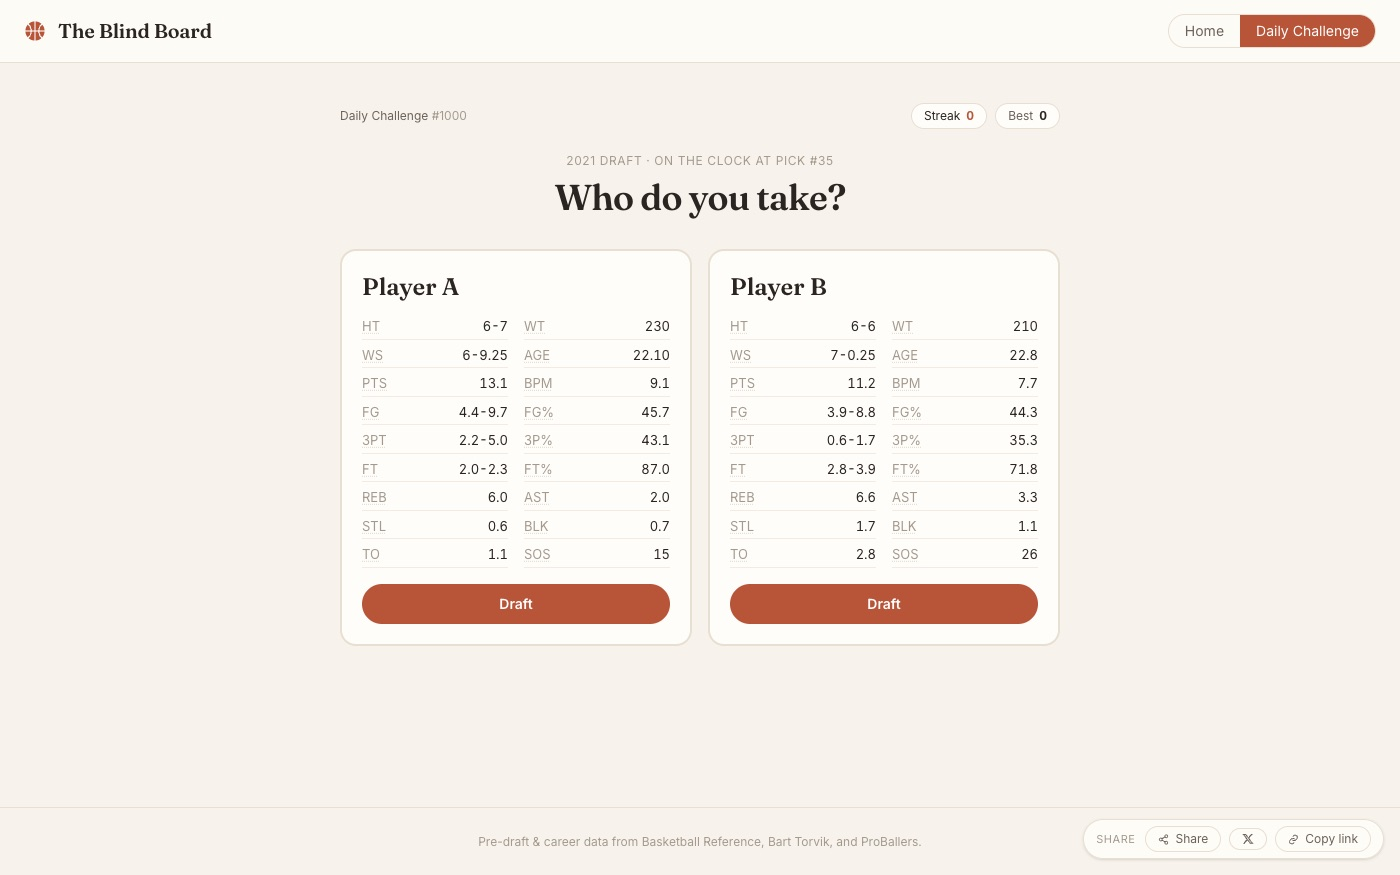
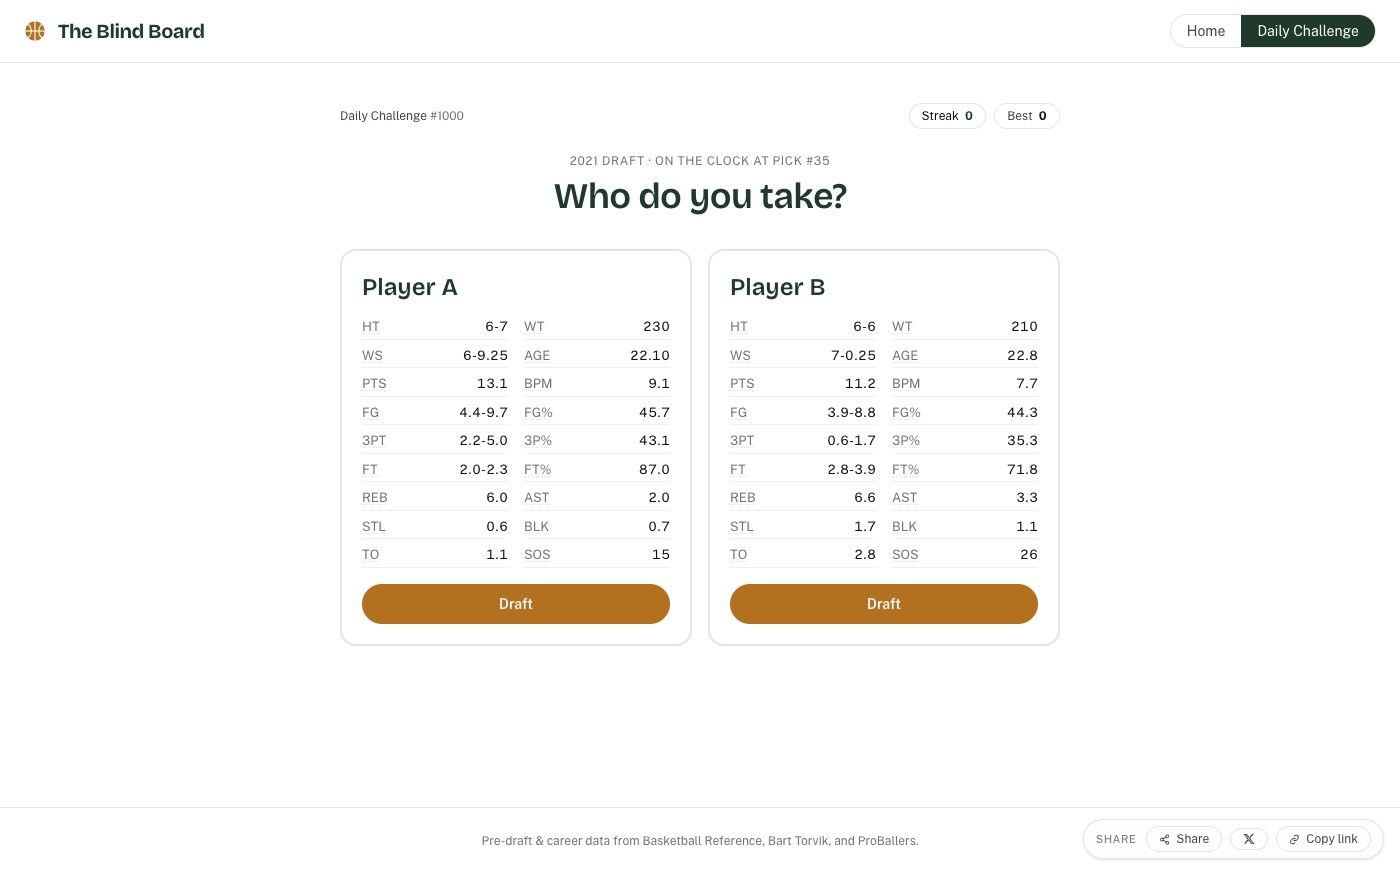
Add Where the Money Goes (dev-only embed), re-shoot tool screenshots in the new themes

diff --git a/src/data/projects.ts b/src/data/projects.ts
@@ -129,19 +129,20 @@ export const projects: Project[] = [
   },
   {
     slug: 'donor-map',
-    name: 'Who Funds Whom',
+    name: 'Where the Money Goes',
     blurb:
-      'Political donations by profession, district by district — which jobs bankroll which candidates.',
+      "Political money that crosses state lines — which states bankroll other states' races in 2026.",
     pitch:
-      'Campaign filings ask donors what they do for a living, and almost nobody reads that column. The ' +
-      'question is who each profession actually funds, and how differently a place gives than it votes. ' +
-      'Straight from FEC filings. Still being measured: at congressional-district resolution most ' +
-      'professions run out of donors, so the geography may have to be coarser than a district. The ' +
-      'methodology will be published in full — on this subject that is the whole ballgame.',
+      'Every 2026 individual donation to a federal candidate, traced from the state the donor lives in ' +
+      'to the state of the race. Each pair is scored against the national pattern, so a big state ' +
+      "sending a lot of money only stands out when it sends more than its size predicts. Pick a state " +
+      'to see where its money goes and where its candidates’ money comes from. Straight from FEC filings.',
     section: 'data',
     topic: 'Politics',
-    status: 'idea',
+    // Not deployed yet: live (embedded, linked) only under `astro dev`.
+    status: import.meta.env.DEV ? 'live' : 'built',
     added: '2026-07-30',
+    image: '/shots/donor-map.jpg',
     accent: '#6A5A99',
   },
 ];

diff --git a/src/config.ts b/src/config.ts
@@ -48,6 +48,8 @@ export const NAV: NavItem[] = [
     children: [
       { label: 'NIL Money Map', href: '/data/nil-money' },
       { label: 'Heat Check', href: '/data/heat-check' },
+      // Not deployed yet, so only linked under `astro dev`.
+      ...(import.meta.env.DEV ? [{ label: 'Where the Money Goes', href: '/data/donor-map' }] : []),
     ],
   },
   {
